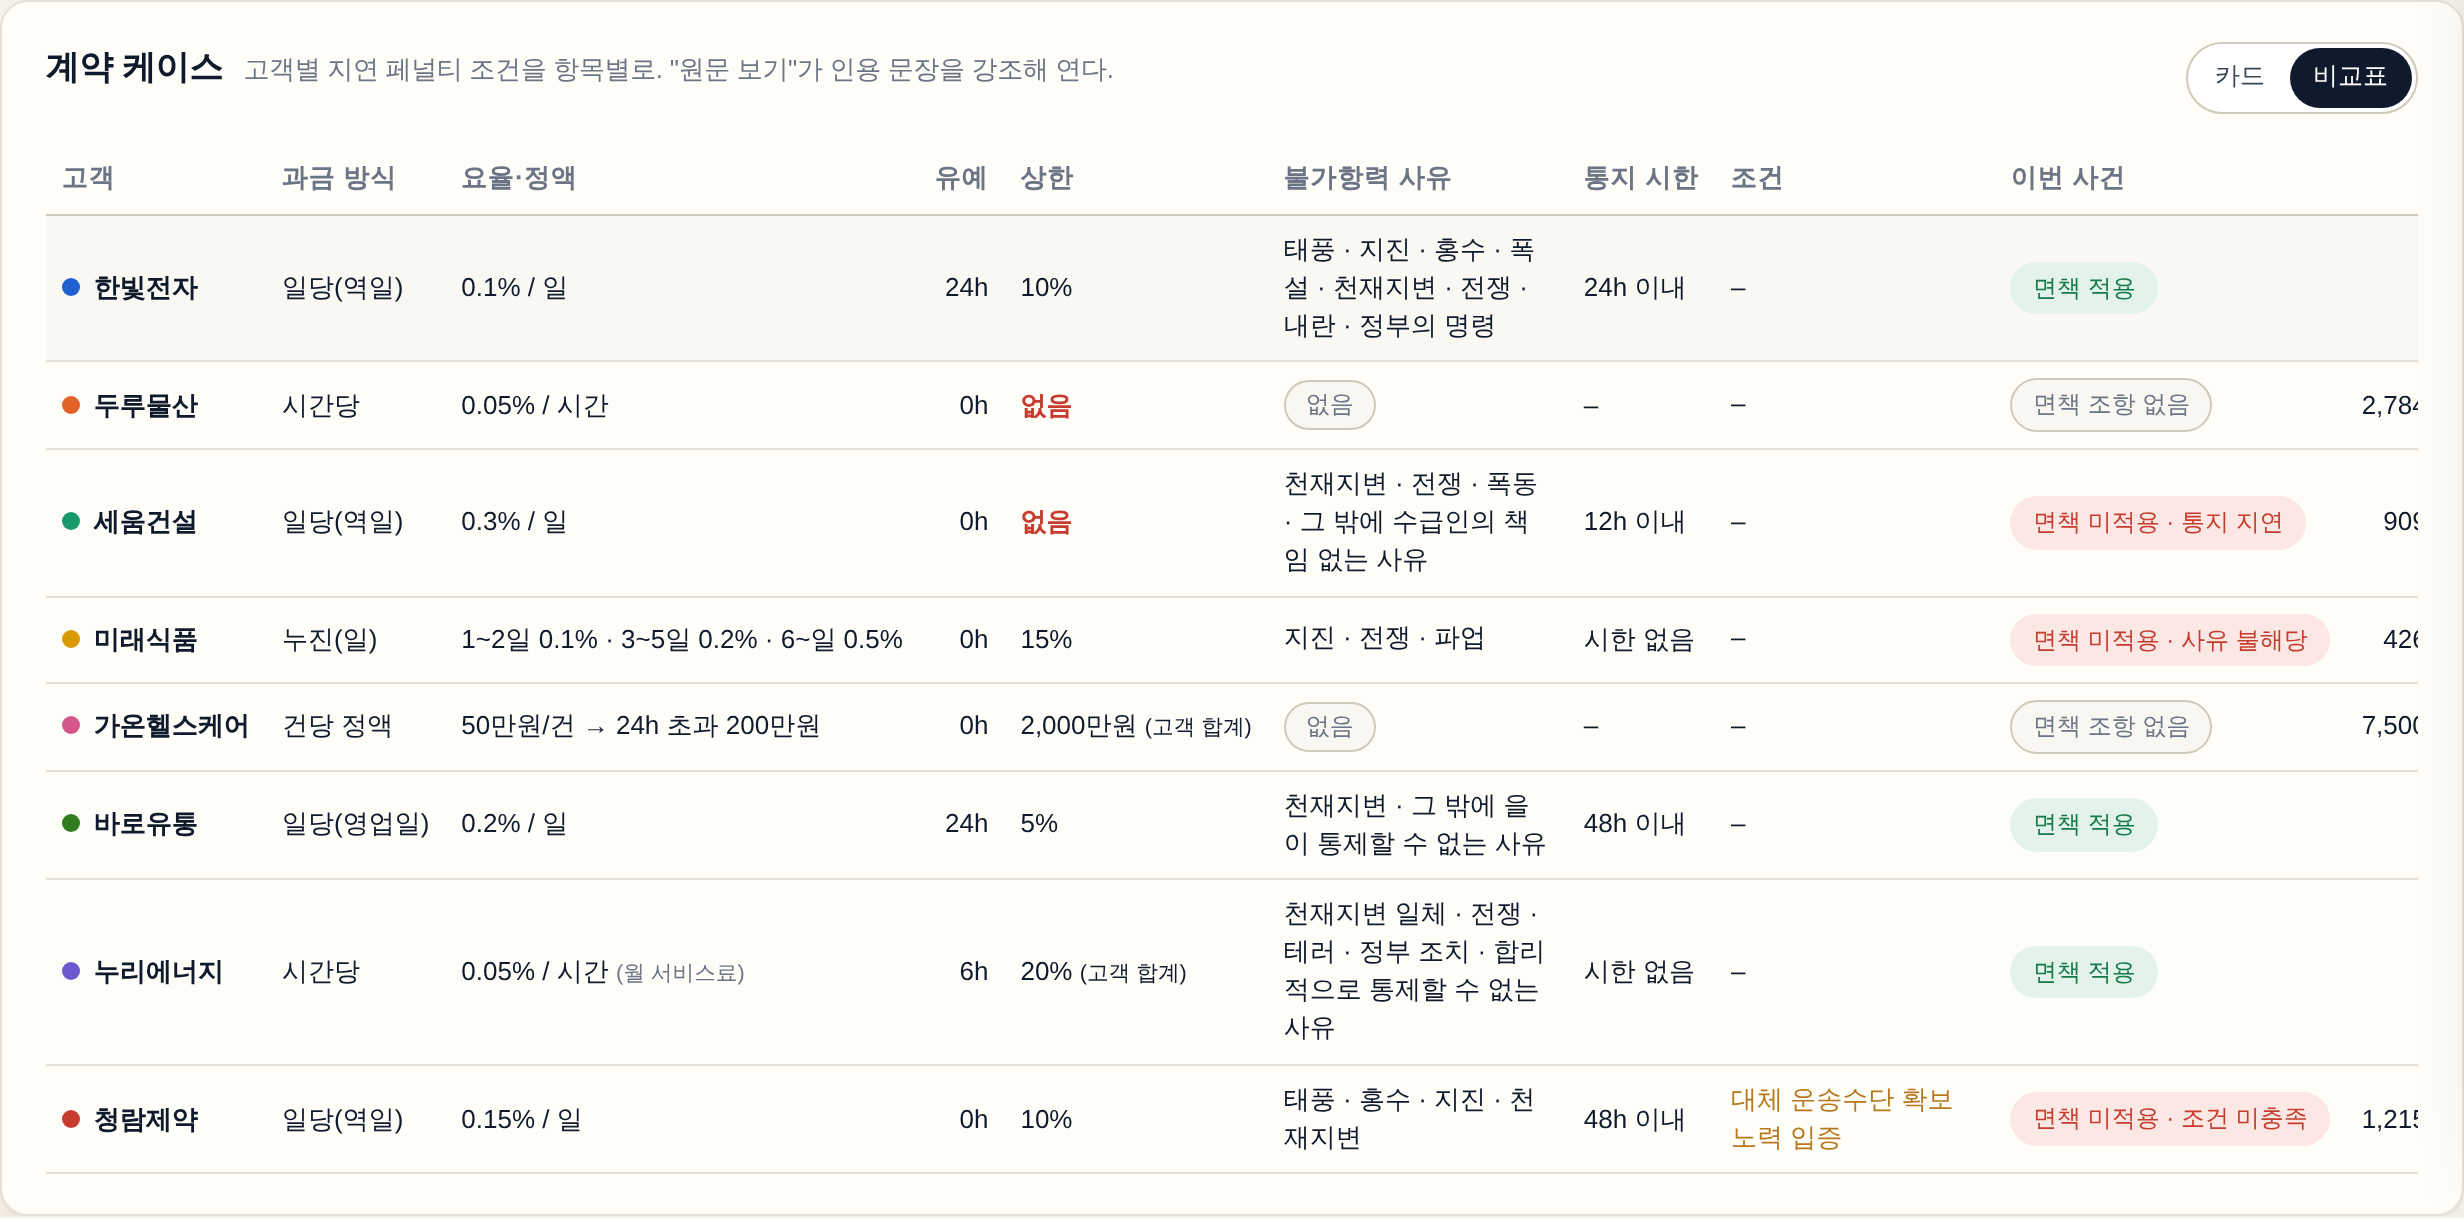
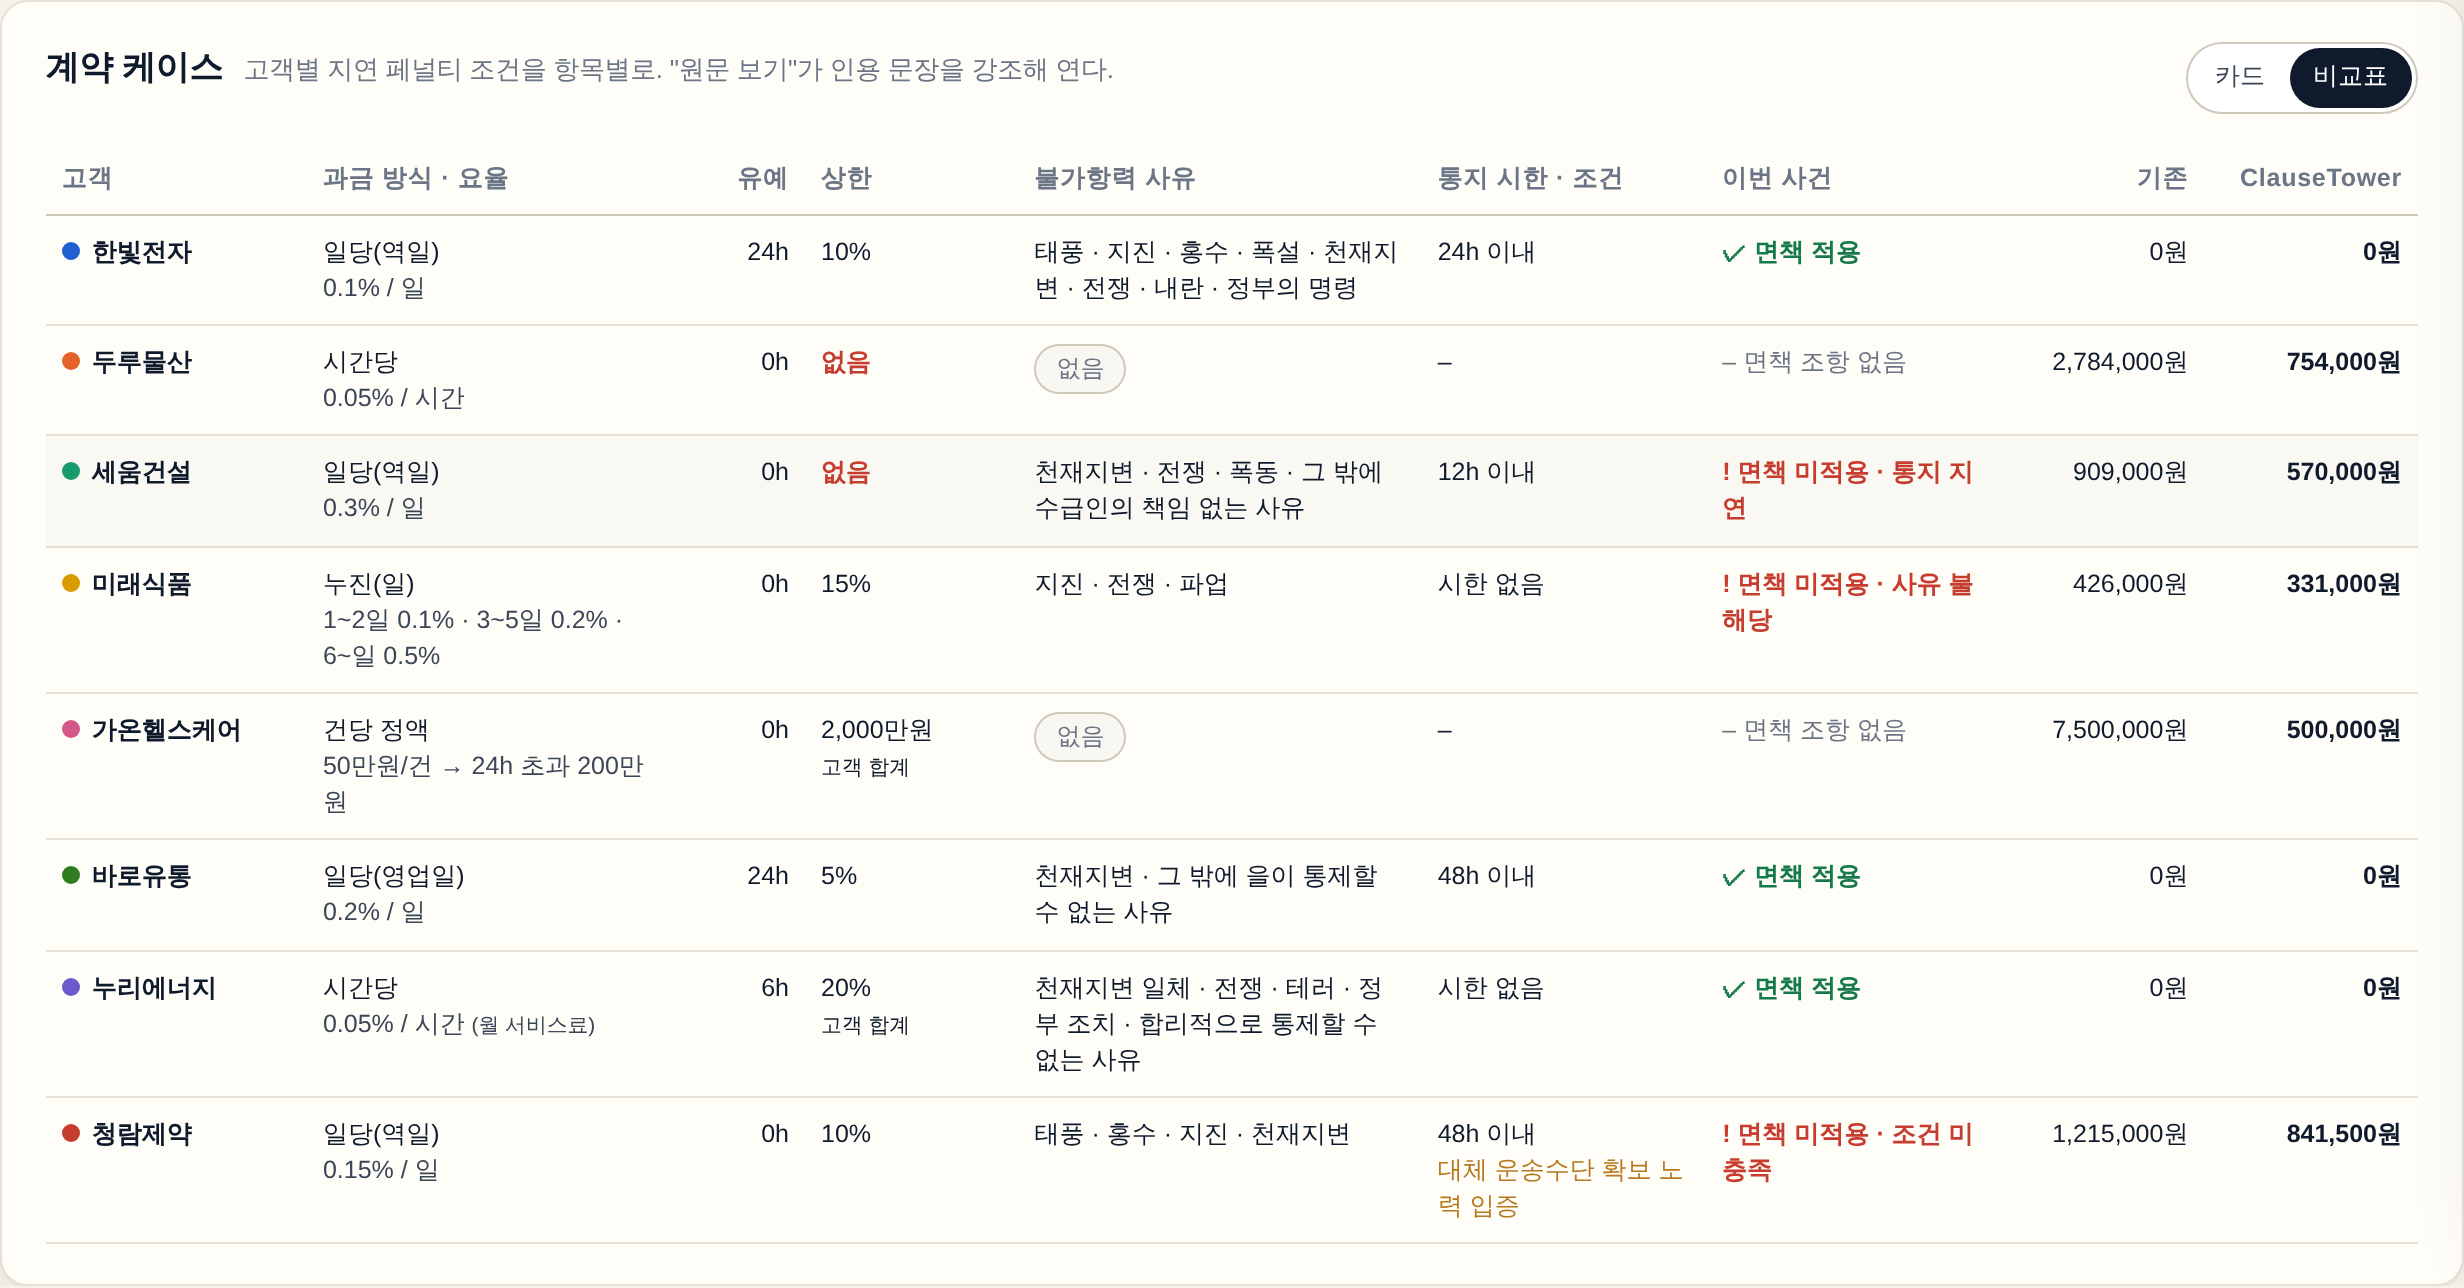
비교표를 화면 폭에 맞춘 고정 레이아웃으로(가로 스크롤 제거, 9열, 줄바꿈)
Claude-Session: https://claude.ai/code/session_0143e6pnK5i9f96QyT19w12h

diff --git a/src/clausetower/web/render.js b/src/clausetower/web/render.js
@@ -49,9 +49,17 @@ function renderBoard(R) {
   if (tg) tg.querySelectorAll('button').forEach(b => b.classList.toggle('on', b.dataset.mode === BOARD_MODE));
   const base = R.policies.deadline_first, ours = R.policies.exposure_first;
   if (BOARD_MODE === 'matrix') {
-    el.className = 'matrix'; el.innerHTML = `<table><thead><tr><th>고객</th><th>과금 방식</th><th>요율·정액</th><th class="n">유예</th><th>상한</th><th>불가항력 사유</th><th>통지 시한</th><th>조건</th><th>이번 사건</th><th class="n">기존</th><th class="n">ClauseTower</th></tr></thead><tbody>` +
+    el.className = 'matrix'; el.innerHTML = `<table><colgroup><col style="width:11%"><col style="width:15%"><col style="width:6%"><col style="width:9%"><col style="width:17%"><col style="width:12%"><col style="width:12%"><col style="width:9%"><col style="width:9%"></colgroup>
+      <thead><tr><th>고객</th><th>과금 방식 · 요율</th><th class="n">유예</th><th>상한</th><th>불가항력 사유</th><th>통지 시한 · 조건</th><th>이번 사건</th><th class="n">기존</th><th class="n">ClauseTower</th></tr></thead><tbody>` +
       R.customers.map(c => { const t = R.terms[c.id], j = R.judgments[c.id], s = termsSummary(t), v = verdictOf(j); const fm = t.force_majeure;
-        return `<tr><td class="nw"><i class="dot" style="display:inline-block;width:9px;height:9px;border-radius:50%;background:${ccolor(c.id)};margin-right:7px"></i><b>${esc(c.name)}</b></td><td class="nw">${BASIS[t.basis] || t.basis}</td><td class="nw" title="기준: ${BASE[t.base]}">${esc(s.rate)}${t.base !== 'shipment_value' ? ` <small style="color:var(--ink-3)">(${BASE[t.base]})</small>` : ''}</td><td class="n">${t.grace_hours}h</td><td class="nw">${s.cap ? s.cap.label + (s.cap.scope === 'customer_period' ? ' <small>(고객 합계)</small>' : '') : '<b style="color:var(--hot)">없음</b>'}</td><td class="wrap">${fm ? esc(fm.covered_events.join(' · ')) : '<span class="chip none">없음</span>'}</td><td class="nw">${fm ? (fm.notice_hours != null ? fm.notice_hours + 'h 이내' : '시한 없음') : '–'}</td><td class="cond">${fm && fm.conditions.length ? '<span style="color:var(--warn)">' + esc(fm.conditions.join(' · ')) + '</span>' : '–'}</td><td class="nw"><span class="chip ${v.cls === 'ok' ? 'fm' : v.cls === 'no' ? 'hot' : 'none'}">${v.t}</span></td><td class="n">${fmt(base.per_customer_krw[c.id] || 0)}</td><td class="n"><b>${fmt(ours.per_customer_krw[c.id] || 0)}</b></td></tr>`; }).join('') + '</tbody></table>';
+        const notice = fm ? (fm.notice_hours != null ? `${fm.notice_hours}h 이내` : '시한 없음') : '–';
+        const cond = fm && fm.conditions.length ? `<div style="color:var(--warn)">${esc(fm.conditions.join(' · '))}</div>` : '';
+        return `<tr><td><i class="dot" style="display:inline-block;width:9px;height:9px;border-radius:50%;background:${ccolor(c.id)};margin-right:6px"></i><b>${esc(c.name)}</b></td>
+          <td><div>${BASIS[t.basis] || t.basis}</div><div style="color:var(--ink-2)">${esc(s.rate)}${t.base !== 'shipment_value' ? ` <small>(${BASE[t.base]})</small>` : ''}</div></td>
+          <td class="n">${t.grace_hours}h</td><td>${s.cap ? s.cap.label + (s.cap.scope === 'customer_period' ? '<div><small>고객 합계</small></div>' : '') : '<b style="color:var(--hot)">없음</b>'}</td>
+          <td>${fm ? esc(fm.covered_events.join(' · ')) : '<span class="chip none">없음</span>'}</td><td>${notice}${cond}</td>
+          <td><span class="vd ${v.cls}">${v.cls === 'ok' ? '✓' : v.cls === 'no' ? '!' : '–'} ${v.t.replace(' (사람 결정)', '<br><small>(사람 결정)</small>')}</span></td>
+          <td class="n">${fmt(base.per_customer_krw[c.id] || 0)}</td><td class="n"><b>${fmt(ours.per_customer_krw[c.id] || 0)}</b></td></tr>`; }).join('') + '</tbody></table>';
     return;
   }
   el.className = 'board';

diff --git a/src/clausetower/web/style.css b/src/clausetower/web/style.css
@@ -83,7 +83,8 @@ input[type=range]{width:100%;accent-color:var(--tower);margin:2px 0}
 .lnk{background:none;border:0;color:var(--tower);cursor:pointer;padding:0;font-size:12.5px}
 .lnk:hover{text-decoration:underline}
 /* 비교표 */
-.matrix{overflow:auto;margin-top:14px}.matrix table{min-width:1060px;table-layout:auto}.matrix th,.matrix td{padding:8px 8px;font-size:13px}.matrix td.wrap{white-space:normal;min-width:150px;max-width:230px;line-height:1.45}.matrix td.cond{white-space:normal;min-width:140px;line-height:1.45}
+.matrix{margin-top:14px;overflow:hidden}.matrix table{width:100%;table-layout:fixed}.matrix th,.matrix td{padding:9px 8px;font-size:12.5px;white-space:normal;overflow-wrap:anywhere;line-height:1.45;vertical-align:top}.matrix th.n,.matrix td.n{white-space:normal}.matrix td.n{font-variant-numeric:tabular-nums}
+.vd{font-weight:600}.vd.ok{color:var(--good)}.vd.no{color:var(--hot)}.vd.none{color:var(--ink-3);font-weight:500}
 table{border-collapse:separate;border-spacing:0;width:100%;font-size:13.5px}
 th{position:sticky;top:0;background:var(--card);color:var(--ink-3);font-weight:600;text-align:left;font-size:12px;letter-spacing:.03em;padding:9px 10px;border-bottom:1px solid var(--line-2);white-space:nowrap}
 td{padding:9px 10px;border-bottom:1px solid var(--line);vertical-align:middle}td.n,th.n{text-align:right;white-space:nowrap}td.nw{white-space:nowrap}
